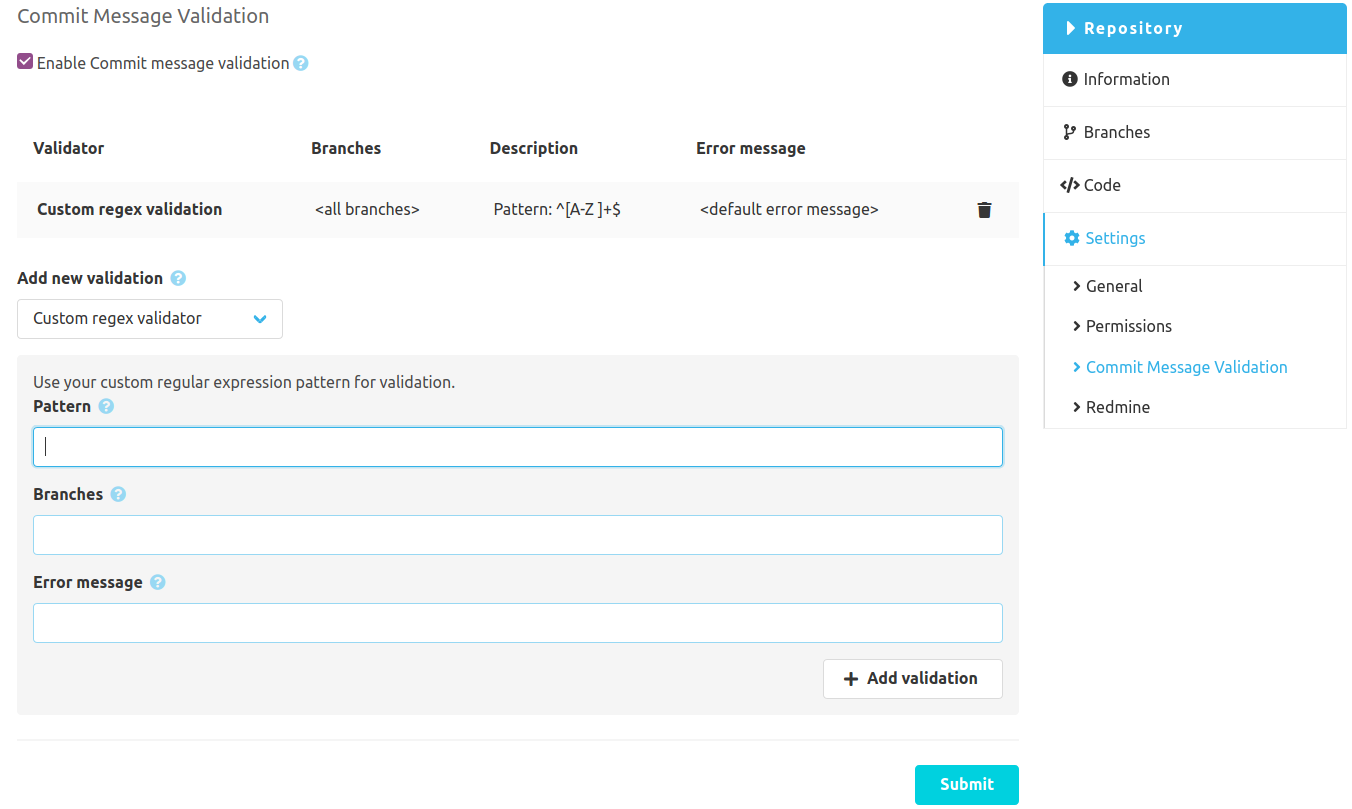
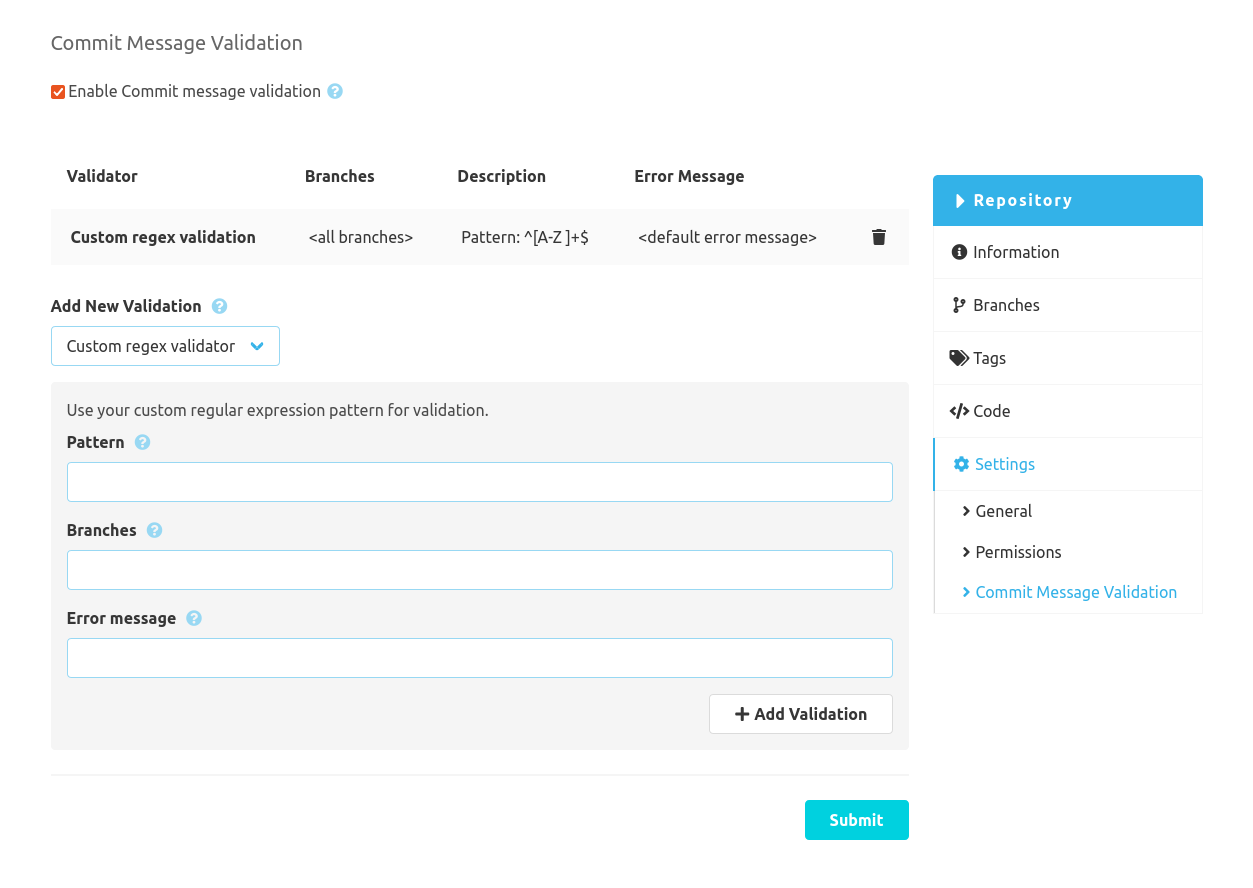
High contrast mode findings (#21)

diff --git a/src/main/js/config/CommitMessageCheckerValidationEditor.tsx b/src/main/js/config/CommitMessageCheckerValidationEditor.tsx
@@ -45,16 +45,8 @@ type Props = {
   global: boolean;
 };
 
-const AddValidatorLevel = styled.div`
-  display: flex;
-  justify-content: space-between;
-  align-items: center;
-`;
-
-const ValidatorDetails = styled.p`
+const ValidatorDetails = styled.div`
   flex: 1;
-  padding: 1rem;
-  background: #f5f5f5;
   border-radius: 4px;
 `;
 
@@ -193,9 +185,9 @@ const CommitMessageCheckerValidationEditor: FC<Props> = ({ initialConfiguration,
           {validationConfigTable}
           {renderAddValidationForm()}
           {selectedValidator && (
-            <AddValidatorLevel>
-              <ValidatorDetails>
-                <h4>{t("validator." + selectedValidator + ".description", validatorConfiguration)}</h4>
+            <div className="is-flex is-justify-content-space-between is-align-items-center">
+              <ValidatorDetails className="has-background-secondary-less p-4">
+                <h3 className="mb-2">{t("validator." + selectedValidator + ".description", validatorConfiguration)}</h3>
                 <ExtensionPoint
                   name={`commitMessageChecker.validator.${selectedValidator}`}
                   renderAll={true}
@@ -218,7 +210,7 @@ const CommitMessageCheckerValidationEditor: FC<Props> = ({ initialConfiguration,
                   }
                 />
               </ValidatorDetails>
-            </AddValidatorLevel>
+            </div>
           )}
         </>
       )}
